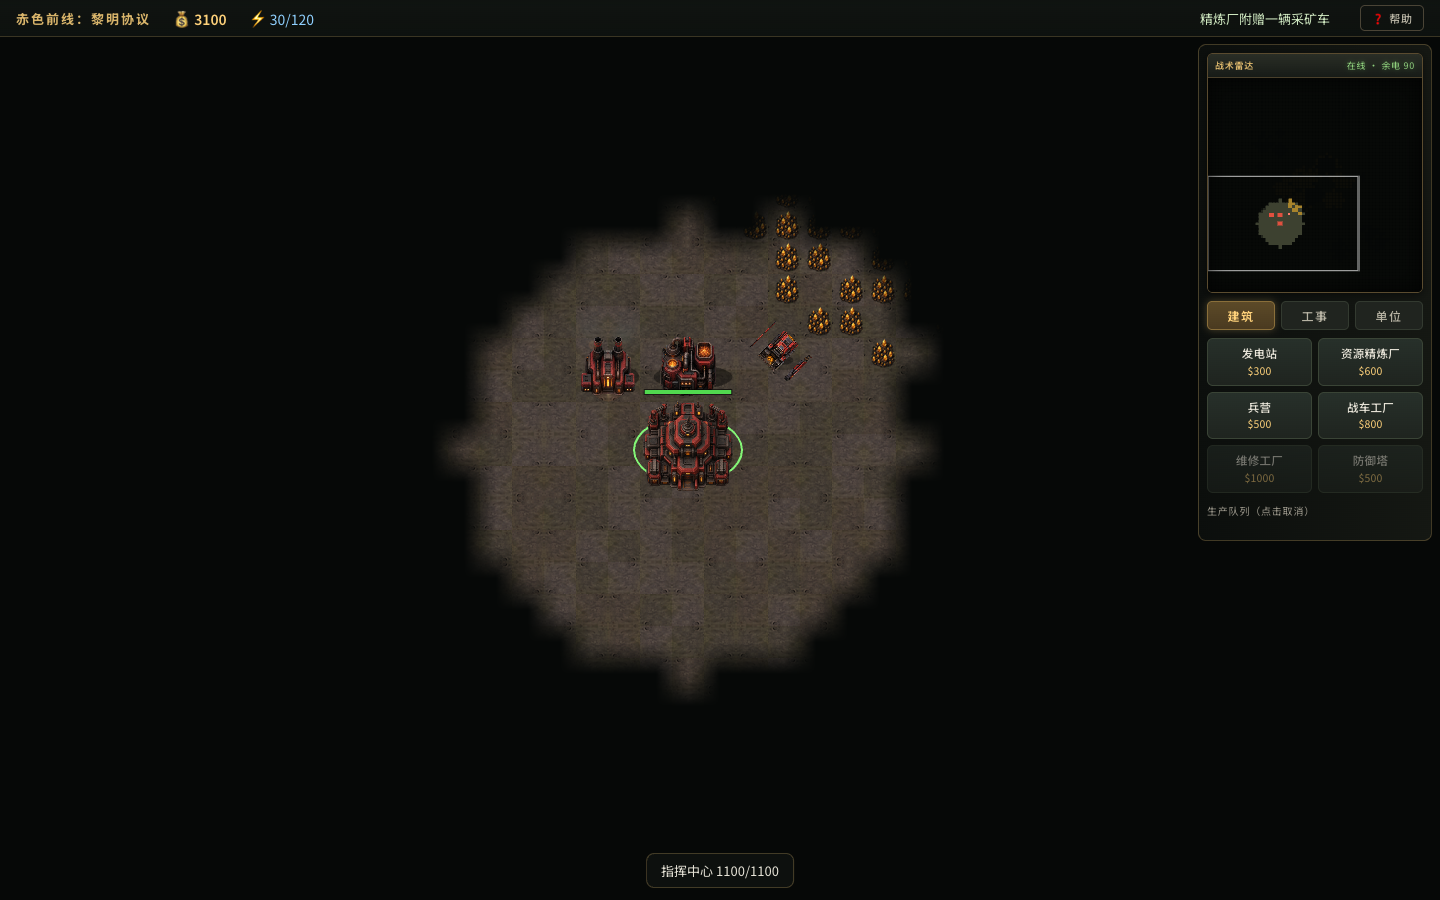
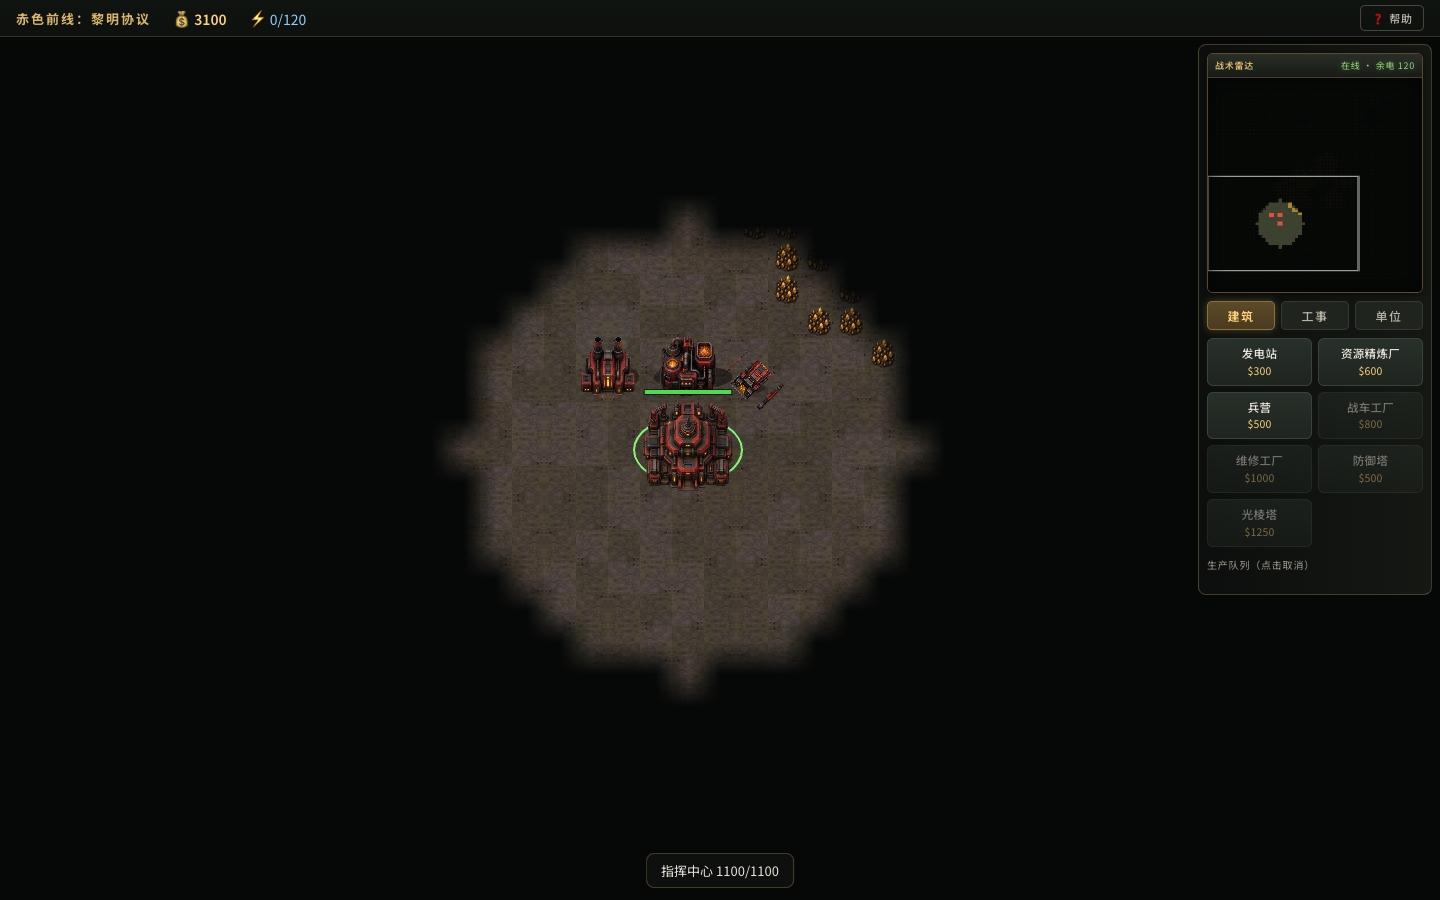
Add prism tower defense

diff --git a/src/entities/Building.ts b/src/entities/Building.ts
@@ -31,6 +31,10 @@ export class Building extends BaseEntity {
   private repairGlow: Phaser.GameObjects.Ellipse | null = null;
   private repairFxClock = 0;
   private repairFxTimer = 0;
+  private prismGlow: Phaser.GameObjects.Arc | null = null;
+  private prismCore: Phaser.GameObjects.Arc | null = null;
+  private prismFxClock = 0;
+  private prismCharge = 0;
 
   constructor(scene: GameScene, kind: BuildingKind, faction: Faction, tx: number, ty: number, instant = false) {
     const stats = BUILDING_STATS[kind];
@@ -73,6 +77,14 @@ export class Building extends BaseEntity {
       this.repairGlow = scene.add.ellipse(0, 7, 56, 20, 0x6dffd2, 0.12);
       this.repairGlow.setBlendMode(Phaser.BlendModes.ADD);
       this.add(this.repairGlow);
+    }
+    if (kind === 'prismTower') {
+      const color = faction === 'player' ? 0x62eaff : 0xb78cff;
+      this.prismGlow = scene.add.circle(0, -25, 14, color, 0.16);
+      this.prismGlow.setBlendMode(Phaser.BlendModes.ADD);
+      this.prismCore = scene.add.circle(0, -25, 3.2, 0xf4ffff, 0.85);
+      this.prismCore.setBlendMode(Phaser.BlendModes.ADD);
+      this.add([this.prismGlow, this.prismCore]);
     }
     this.rallyGfx = scene.add.graphics();
     this.add(this.rallyGfx);
@@ -168,6 +180,36 @@ export class Building extends BaseEntity {
     if (this.kind === 'powerPlant') this.updatePowerPlantEffects(dt);
     if (this.kind === 'beacon') this.updateBeaconEffects(dt);
     if (this.kind === 'repairFactory') this.updateRepairFactory(dt);
+    if (this.kind === 'prismTower') this.updatePrismTower(dt);
+  }
+
+  private updatePrismTower(dt: number): void {
+    if (!this.prismGlow || !this.prismCore) return;
+    this.prismFxClock += dt;
+    const powered = this.gs.powerOk(this.faction);
+    const color = this.faction === 'player' ? 0x62eaff : 0xb78cff;
+    const target = powered ? this.gs.findEnemyInRange(this, this.stats.range ?? 0) : null;
+    const chargeTime = this.stats.cooldown ?? 2.25;
+    if (target) {
+      this.prismCharge = Math.min(chargeTime, this.prismCharge + dt);
+      if (this.prismCharge >= chargeTime) {
+        this.gs.firePrismWeapon(this, target, this.stats.damage ?? 0);
+        this.prismCharge = 0;
+      }
+    } else {
+      this.prismCharge = Math.max(0, this.prismCharge - dt * 1.5);
+    }
+
+    const charge = this.prismCharge / chargeTime;
+    const idlePulse = 0.5 + Math.sin(this.prismFxClock * 5.2) * 0.5;
+    this.prismGlow
+      .setFillStyle(powered ? color : 0xff4e3d)
+      .setAlpha(powered ? 0.1 + idlePulse * 0.1 + charge * 0.42 : 0.035 + idlePulse * 0.025)
+      .setScale(0.82 + idlePulse * 0.12 + charge * 0.72);
+    this.prismCore
+      .setFillStyle(powered ? 0xf4ffff : 0x7a2e29)
+      .setAlpha(powered ? 0.55 + charge * 0.45 : 0.2)
+      .setScale(0.85 + charge * 0.85);
   }
 
   private updateRepairFactory(dt: number): void {
@@ -248,6 +290,14 @@ export class Building extends BaseEntity {
       this.overlay.fillStyle(0x6dffd2, 0.025);
       this.overlay.fillCircle(0, 0, range);
       this.overlay.lineStyle(1.5, 0x6dffd2, 0.42);
+      this.overlay.strokeCircle(0, 0, range);
+    }
+    if (this.selected && this.kind === 'prismTower') {
+      const range = this.stats.range ?? 0;
+      const color = this.faction === 'player' ? 0x62eaff : 0xb78cff;
+      this.overlay.fillStyle(color, 0.018);
+      this.overlay.fillCircle(0, 0, range);
+      this.overlay.lineStyle(1.5, color, 0.4);
       this.overlay.strokeCircle(0, 0, range);
     }
     if (!this.active) {

diff --git a/src/systems/Effects.ts b/src/systems/Effects.ts
@@ -14,6 +14,45 @@ export function tracer(scene: GameScene, x1: number, y1: number, x2: number, y2:
   scene.tweens.add({ targets: flash, alpha: 0, scale: 0.3, duration: 110, onComplete: () => flash.destroy() });
 }
 
+/** 光棱塔的分层高能光束与棱镜命中闪光。 */
+export function prismBeam(scene: GameScene, x1: number, y1: number, x2: number, y2: number, color: number): void {
+  const halo = scene.add.line(0, 0, x1, y1, x2, y2, color, 0.24).setOrigin(0, 0).setDepth(620);
+  halo.setLineWidth(7);
+  halo.setBlendMode(Phaser.BlendModes.ADD);
+  const core = scene.add.line(0, 0, x1, y1, x2, y2, 0xf4ffff, 0.98).setOrigin(0, 0).setDepth(621);
+  core.setLineWidth(2);
+  core.setBlendMode(Phaser.BlendModes.ADD);
+  scene.tweens.add({
+    targets: [halo, core],
+    alpha: 0,
+    duration: 230,
+    onComplete: () => {
+      halo.destroy();
+      core.destroy();
+    },
+  });
+
+  const ring = scene.add.circle(x2, y2, 6, color, 0.72).setDepth(622);
+  ring.setStrokeStyle(2, 0xffffff, 0.9).setBlendMode(Phaser.BlendModes.ADD);
+  scene.tweens.add({
+    targets: ring,
+    scale: 3.2,
+    alpha: 0,
+    duration: 320,
+    ease: 'Cubic.easeOut',
+    onComplete: () => ring.destroy(),
+  });
+  for (let i = 0; i < 6; i++) {
+    const a = (Math.PI * 2 * i) / 6 + Phaser.Math.FloatBetween(-0.18, 0.18);
+    const ray = scene.add.line(0, 0, x2, y2, x2 + Math.cos(a) * 18, y2 + Math.sin(a) * 18, color, 0.86)
+      .setOrigin(0, 0)
+      .setDepth(623)
+      .setBlendMode(Phaser.BlendModes.ADD);
+    ray.setLineWidth(1.4);
+    scene.tweens.add({ targets: ray, alpha: 0, duration: 260, onComplete: () => ray.destroy() });
+  }
+}
+
 /** 爆炸效果 */
 export function explosion(scene: GameScene, x: number, y: number, big = false): void {
   const r = big ? 34 : 16;

diff --git a/src/scenes/GameScene.ts b/src/scenes/GameScene.ts
@@ -23,7 +23,7 @@ import { Unit } from '../entities/Unit';
 import { ENEMY_HOME, GameMap, PLAYER_HOME, T_ORE } from '../world/GameMap';
 import { FogOfWar } from '../world/FogOfWar';
 import { EnemyAI } from '../systems/EnemyAI';
-import { explosion, floatText, rallyFlag, tracer } from '../systems/Effects';
+import { explosion, floatText, prismBeam, rallyFlag, tracer } from '../systems/Effects';
 import { initSfx, sfx } from '../core/Sfx';
 
 interface DragState {
@@ -588,6 +588,13 @@ export class GameScene extends Phaser.Scene {
     target.takeDamage(damage);
     // 只有玩家视野内的交火才播音效，避免远处噪音
     if (attacker.faction === 'player' || this.fog.isVisibleWorld(attacker.x, attacker.y)) sfx.shoot();
+  }
+
+  firePrismWeapon(attacker: BaseEntity, target: BaseEntity, damage: number): void {
+    const color = attacker.faction === 'player' ? 0x62eaff : 0xb78cff;
+    prismBeam(this, attacker.x, attacker.y - 28, target.x, target.y, color);
+    target.takeDamage(damage);
+    if (attacker.faction === 'player' || this.fog.isVisibleWorld(attacker.x, attacker.y)) sfx.prism();
   }
 
   onEntityDied(e: BaseEntity): void {

diff --git a/src/config.ts b/src/config.ts
@@ -48,6 +48,7 @@ export type BuildingKind =
   | 'warFactory'
   | 'repairFactory'
   | 'turret'
+  | 'prismTower'
   | 'groundPatch'
   | 'rockBarrier'
   | 'oreDeposit'
@@ -260,6 +261,20 @@ export const BUILDING_STATS: Record<BuildingKind, BuildingStats> = {
     damage: 24,
     cooldown: 0.9,
   },
+  prismTower: {
+    name: '光棱塔',
+    desc: '蓄能后发射高伤害光束，需要大量电力',
+    cost: 1250,
+    buildTime: 13,
+    hp: 520,
+    size: [2, 2],
+    visualSize: [74, 96],
+    power: -65,
+    sight: 9,
+    range: 240,
+    damage: 78,
+    cooldown: 2.25,
+  },
   groundPatch: {
     name: '工兵路面',
     desc: '铺设一块低矮战场路面，不阻挡单位',
@@ -394,6 +409,7 @@ export const BUILD_PREREQ: Partial<Record<BuildingKind, BuildingKind>> = {
   warFactory: 'refinery',
   repairFactory: 'warFactory',
   turret: 'barracks',
+  prismTower: 'warFactory',
 };
 
 export const FACTION_COLORS = {
@@ -409,6 +425,7 @@ export const BUILDING_KINDS: BuildingKind[] = [
   'warFactory',
   'repairFactory',
   'turret',
+  'prismTower',
 ];
 export const FORTIFICATION_KINDS: BuildingKind[] = [
   'groundPatch',

diff --git a/src/scenes/BootScene.ts b/src/scenes/BootScene.ts
@@ -220,6 +220,20 @@ function drawBuilding(g: G, kind: BuildingKind, c: (typeof FACTION_COLORS)[Facti
       g.lineBetween(w * 0.88, h * 0.3, w * 0.7, h * 0.52);
       break;
     }
+    case 'prismTower': {
+      g.fillStyle(0x262931, 1);
+      g.fillRect(w * 0.12, h * 0.58, w * 0.76, h * 0.3);
+      g.fillStyle(c.dark, 1);
+      g.fillRect(w * 0.31, h * 0.23, w * 0.38, h * 0.48);
+      g.lineStyle(3, 0x555c68, 1);
+      g.lineBetween(w * 0.18, h * 0.65, w * 0.38, h * 0.28);
+      g.lineBetween(w * 0.82, h * 0.65, w * 0.62, h * 0.28);
+      g.fillStyle(c.accent, 1);
+      g.fillTriangle(w * 0.5, h * 0.05, w * 0.34, h * 0.3, w * 0.66, h * 0.3);
+      g.lineStyle(2, 0xeaffff, 0.9);
+      g.strokeTriangle(w * 0.5, h * 0.05, w * 0.34, h * 0.3, w * 0.66, h * 0.3);
+      break;
+    }
     case 'turret': {
       g.fillStyle(c.dark, 1);
       g.fillCircle(w / 2, h / 2, 12);

diff --git a/src/ui/HUD.ts b/src/ui/HUD.ts
@@ -196,8 +196,9 @@ export class HUD {
               <li>⑤ 回“建筑”页，在绿色范围内建<b>兵营</b></li>
               <li>⑥ 兵营完工后打开“单位”页训练<b>步兵</b></li>
               <li>⑦ 精炼厂 → <b>战车工厂</b>解锁坦克，再建<b>维修工厂</b>自动修复附近作战单位</li>
-              <li>⑧ “工事”页可部署城墙、障碍、警戒灯与矿脉</li>
-              <li>⑨ 攒一波装甲部队，端掉对面老家</li>
+              <li>⑧ 战车工厂还会解锁高耗电的<b>光棱塔</b>，蓄能后发射高伤害光束</li>
+              <li>⑨ “工事”页可部署城墙、障碍、警戒灯与矿脉</li>
+              <li>⑩ 攒一波装甲部队，端掉对面老家</li>
             </ul>
           </div>
         </div>

diff --git a/src/core/Sfx.ts b/src/core/Sfx.ts
@@ -48,6 +48,10 @@ export const sfx = {
   shoot(): void {
     tone(480 + Math.random() * 120, 0.09, 'square', 0.045, -260);
   },
+  prism(): void {
+    tone(420, 0.18, 'sine', 0.055, 920);
+    tone(1040, 0.22, 'triangle', 0.045, -180, 0.035);
+  },
   boom(big = false): void {
     noiseBurst(big ? 0.5 : 0.25, big ? 0.22 : 0.1);
     tone(big ? 90 : 130, big ? 0.45 : 0.25, 'sine', big ? 0.2 : 0.09, -60);

diff --git a/src/systems/EnemyAI.ts b/src/systems/EnemyAI.ts
@@ -21,6 +21,7 @@ export class EnemyAI {
     'warFactory',
     'repairFactory',
     'powerPlant',
+    'prismTower',
     'turret',
     'turret',
     'refinery',

diff --git a/README.md b/README.md
@@ -94,8 +94,11 @@ npm run smoke      # 自动化试玩测试（需本机装有 Chrome，且 dev se
 | 战车工厂 | 生产轻型/重型坦克、采矿车、基地工程车 |
 | 维修工厂 | 自动维修半径内的受伤作战单位；需要战车工厂与稳定供电 |
 | 防御塔 | 自动攻击射程内敌人，电力不足时瘫痪 |
+| 光棱塔 | 高耗电远程防御建筑，锁定目标后蓄能并发射高伤害棱镜光束 |
 
 ![维修工厂透明素材](src/assets/generated/buildings/repairFactory-neutral.png)
+
+![光棱塔透明素材](src/assets/generated/buildings/prismTower-neutral.png)
 
 建造有**固定范围限制**：每辆基地工程车部署后，会以新的指挥中心为核心生成一块独立的 8 格建造圈；电站、兵营、城墙等设施都不能继续向外延伸边界。想在远处开分基地，必须生产基地工程车、开到目标位置后再次部署。放置建筑时会显示所有指挥中心的半透明绿色边界；失去一个分基地不会立刻战败，只有全部指挥中心被摧毁才失败。科技建筑仍有前置要求（如战车工厂需要先建精炼厂）。
 
@@ -121,7 +124,7 @@ npm run smoke      # 自动化试玩测试（需本机装有 Chrome，且 dev se
 ### 经济与电力
 
 - 采矿车全自动运行：寻矿 → 开采 → 返回精炼厂 → 变现入账；矿脉会枯竭。
-- 建筑耗电、电站供电；**电力不足时生产速度减半、防御塔与维修工厂停摆**，顶部电力指示会变红闪烁。
+- 建筑耗电、电站供电；**电力不足时生产速度减半、防御塔、光棱塔与维修工厂停摆**，顶部电力指示会变红闪烁。
 - 生产队列上限 5 个，点击队列项可取消并返还费用。
 
 ### 战场
@@ -162,4 +165,4 @@ scripts/
 
 ## 验证
 
-`npm run smoke` 会用本机 Chrome 真实加载游戏，模拟鼠标键盘完成：部署指挥中心 → 建电站/精炼厂/兵营 → 采矿增收 → 点选与右键移动 → 生产步兵 → 维修工厂自动回血 → 工事放置与阻挡 → 基地车异地扩张 → 自动交火 → 迷雾遮蔽 → AI 扩张 → 胜负判定，共 32 项断言，并输出截图到 `scripts/shots/`。
+`npm run smoke` 会用本机 Chrome 真实加载游戏，模拟鼠标键盘完成：部署指挥中心 → 建电站/精炼厂/兵营 → 采矿增收 → 点选与右键移动 → 生产步兵 → 维修工厂自动回血 → 光棱塔蓄能攻击 → 工事放置与阻挡 → 基地车异地扩张 → 自动交火 → 迷雾遮蔽 → AI 扩张 → 胜负判定，共 34 项断言，并输出截图到 `scripts/shots/`。
